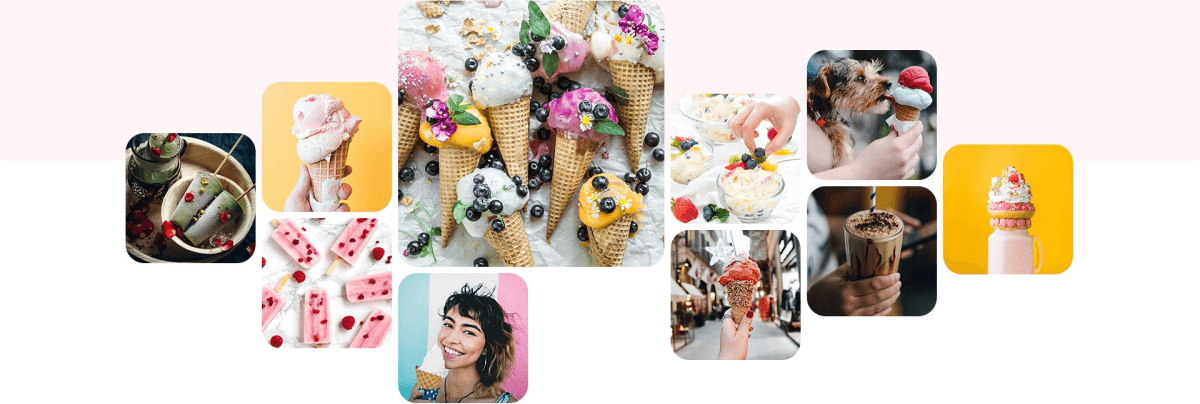
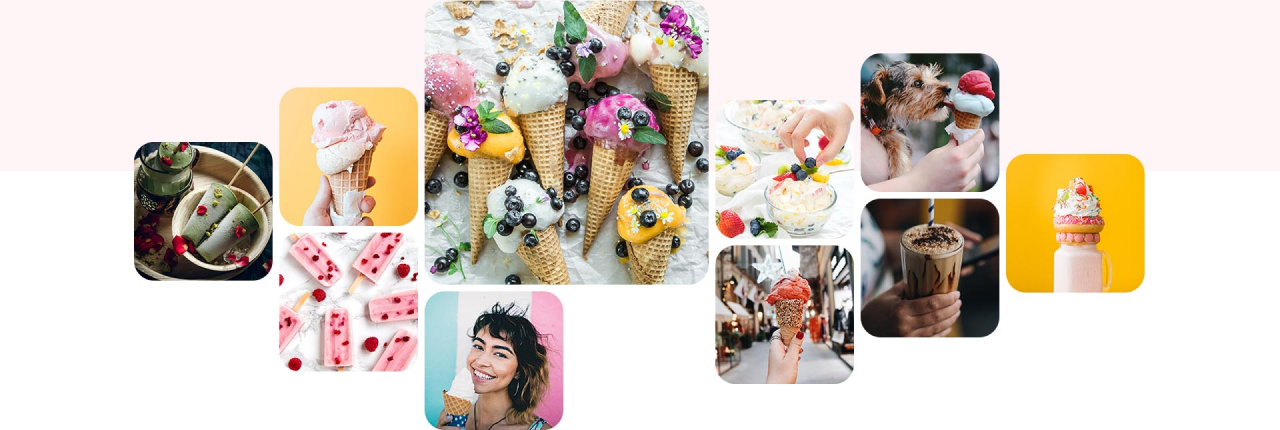
upd gallery

diff --git a/src/sass/layout/_gallery.scss b/src/sass/layout/_gallery.scss
@@ -1,18 +1,147 @@
-
-
 .gallery {
-
-    padding-top: 140px ;
-    background: linear-gradient(to top, #ffffff 43%, #fff5f6 10.7%, );
     
-   
-
-
-@media screen and (min-width: 479px) {
+    background-image: linear-gradient(to bottom, #fff5f6 37%, #ffffff 37%);
+    min-width: 320px;
+    height: 122px;
     
-        padding-top: 97px;
-        width: 364px;
+    @media screen and (min-width: 768px) {
         
+        min-width: 786px;
+        height: 264px;
+        background-image: linear-gradient(to bottom, #fff5f6 37%, #ffffff 37%);
+    }
+    @media screen and (min-width: 1200px) {
         
+        min-width: 1280px;
+        height: 448px;
+        background-image: linear-gradient(to bottom, #fff5f6 37%, #ffffff 37%);
+    }
 }
+.gallery__container {
+
+    
+    justify-content: center;
+    display: flex;
+    flex-direction: row;
+    
+}
+.gallery__item-1 {
+    position: relative;
+    top: 34px;
+    max-width: 39px;
+    @media screen and (min-width: 780px) {
+        position: relative;
+        top: 73px;
+        max-width: 87px;
+    }
+    @media screen and (min-width: 1200px) {
+        top: 120px;
+        max-width: 280px;
+    }
+}
+.gallery__item-2 {
+    position: relative;
+    top: 17px;
+max-width: 39px;
+    display: flex;
+    flex-direction: column;
+    @media screen and (min-width: 780px) {
+        position: relative;
+        top: 40px;
+        max-width: 87px;
+    }
+    @media screen and (min-width: 1200px) {
+        top: 90px;
+        max-width: 280px;
+    }
+}
+.gallery__item-3 {
+    position: relative;
+    top: 0px;
+    max-width: 84px;
+    @media screen and (min-width: 780px) {
+        max-width: 177px;
+        
+    @media screen and (min-width: 1200px) {
+        max-width: 570px;
+    }
+    }
+}
+.gallery__item-3-1 {
+    max-width: 37px;
+   @media screen and (min-width: 780px) {
+        max-width: 85px;}
+        
+    @media screen and (min-width: 1200px) {
+        max-width: 90px;
+    }
+}
+.gallery__item-4 {
+    position: relative;
+    top: 20px;
+    max-width: 40px;
+    @media screen and (min-width: 780px) {
+        position: relative;
+        top: 44px;
+        max-width: 87px;
+    }
+    @media screen and (min-width: 1200px) {
+        top: 100px;
+        max-width: 270px;
+    }
+}
+.gallery__item-5 {
+    position: relative;
+    top: 12px;
+    max-width: 39px;
+    @media screen and (min-width: 780px) {
+        position: relative;
+        top: 55px;
+        max-width: 85px;
+    }
+    @media screen and (min-width: 1200px) {
+        top: 50px;
+        max-width: 265px;   }
+}
+.gallery__item-6 {
+    position: relative;
+    top: 30px;
+    max-width: 40px;
+    @media screen and (min-width: 780px) {
+        position: relative;
+        top: 70px;
+        max-width: 85px;
+    }
+    @media screen and (min-width: 1200px) {
+        top: 130px;
+        max-width: 270px;
+    }
+}
+.gallery__item__img {
+    margin: 2px;
+    @media screen and (min-width: 780px) {
+       margin: 3px;
+    }
+    @media screen and (min-width: 1200px) {
+        margin: 5px;
+    }
+    &:hover,
+    &:focus {
+
+        animation-name:spin;
+        animation-duration: 2s;
+        animation-timing-function: linear;
+        animation-iteration-count: 1s;
+      }
+      
+      @keyframes spin {
+
+        0% {
+          transform: rotate(0deg);
+        }
+      
+        100% {
+          transform: rotate(360deg);
+        }
+      }
 }

diff --git a/src/partials/gallery.html b/src/partials/gallery.html
@@ -1,35 +1,69 @@
-<section class="gallery container">
-  <div class="gallery-img">
-    <picture>
-      <source
-        srcset="
-          ./images/comment-photo-mob.png    1x,
-          ./images/comment-photo-mob@2x.png 2x
-        "
-        media="(max-width:767px)"
-        type="image/png"
-      />
-      <source
-        srcset="
-          ./images/comment-photo-desk.png    1x,
-          ./images/comment-photo-desk@2x.png 2x
-        "
-        media="(min-width:1200px)"
-        type="image/png"
-      />
-      <source
-        srcset="
-          ./images/comment-photo-tab.png    1x,
-          ./images/comment-photo-tab@2x.png 2x
-        "
-        media="(min-width:768px)"
-        type="image/png"
-      />
-      <img
-        class="icecreams"
-        src="./images/comment-photo-tab.png"
-        alt="differents type of icecream"
-      />
-    </picture>
+<section class="gallery">
+  <div class="container gallery__container">
+      <div class="gallery__item-1">
+          <div class="gallery__item__img">
+              
+            <img src="./images/images-section/icecream1.png" 
+                 alt="icecream">    
+          </div>
+      </div>
+      
+      <div class="gallery__item-2"> 
+          <div class="gallery__item__img">
+              
+            <img src="./images/images-section/icecream2.png" 
+                 alt="icecream">
+          </div>
+          
+          <div class="gallery__item__img">
+              
+            <img src="./images/images-section/icecream3.png" 
+                alt="icecream">
+          </div>
+      </div>
+      
+      <div class="gallery__item-3">
+          <div class="gallery__item__img">
+              <img src="./images/images-section/icecream4.png" 
+                   alt="icecream">
+          </div>
+          
+          <div class="gallery__item__img gallery__item-3-1">
+              <img src="./images/images-section/icecream5.png" 
+                   alt="icecream">
+          </div>
+      </div>
+      
+      <div class="gallery__item-4">
+          <div class="gallery__item__img">
+              <img src="./images/images-section/icecream6.png" 
+                   alt="icecream">
+          </div>
+          
+          <div class="gallery__item__img">
+              <img src="./images/images-section/icecream7.png" 
+                   alt="icecream">
+          </div>
+      </div>
+      
+      <div class="gallery__item-5">
+          <div class="gallery__item__img">
+              
+            <img src="./images/images-section/icecream8.png" 
+                 alt="icecream">
+          </div> 
+          
+          <div class="gallery__item__img">        
+              <img src="./images/images-section/icecream9.png" 
+                   alt="icecream">
+          </div>
+      </div>
+      
+      <div class="gallery__item-6">
+          <div class="gallery__item__img">
+              <img src="./images/images-section/icecream10.png" 
+                   alt="icecream">
+          </div>
+      </div>
   </div>
-</section>>
+</section>

diff --git a/src/sass/main.css b/src/sass/main.css
@@ -2875,7 +2875,6 @@ body {
 @media screen and (min-width: 479px) {
   .gallery {
     padding-top: 97px;
-    width: 364px;
   }
 }
 
